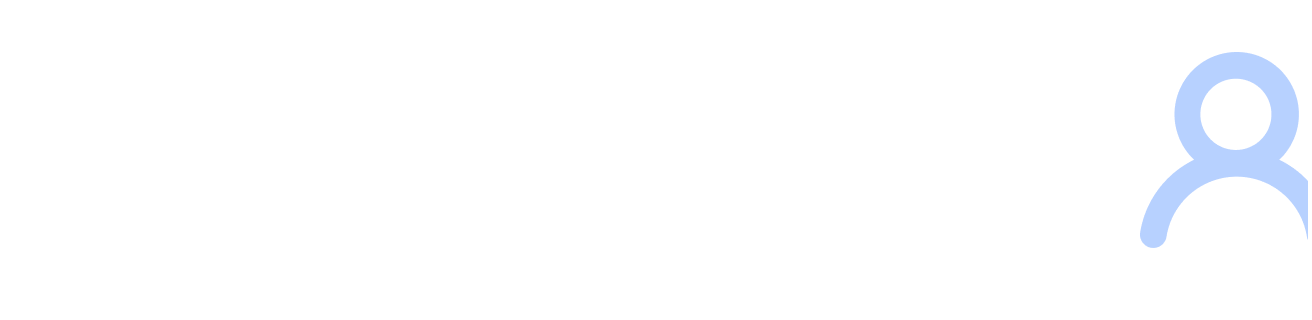
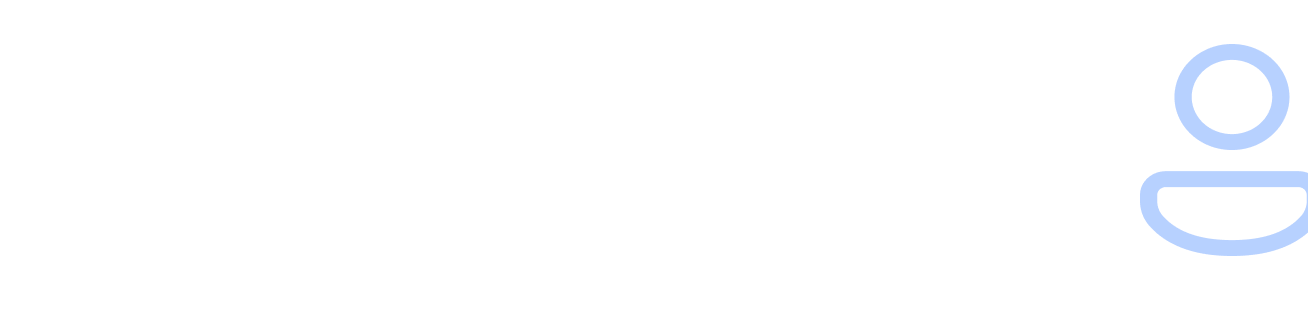
fix halaman depan

Changed region(s): [[0.8438, 0.125, 1.0, 0.8125]]

diff --git a/e_siklinik/lib/pages/data.dart b/e_siklinik/lib/pages/data.dart
@@ -3,6 +3,8 @@ import 'package:e_siklinik/pages/data_dokter.dart';
 import 'package:e_siklinik/pages/data_obat.dart';
 import 'package:e_siklinik/pages/data_pasein.dart';
 import 'package:flutter/material.dart';
+import 'package:fluttericon/font_awesome_icons.dart';
+import 'package:fluttericon/rpg_awesome_icons.dart';
 
 class Data extends StatefulWidget {
   const Data({super.key});
@@ -18,70 +20,91 @@ class _DataState extends State<Data> {
       body: SafeArea(
           child: Padding(
         padding: const EdgeInsets.symmetric(horizontal: 16.0),
-        child: Column(
-          crossAxisAlignment: CrossAxisAlignment.start,
-          children: [
-            const SizedBox(
-              height: 8,
-            ),
-            Container(
-              decoration: const BoxDecoration(
-                borderRadius: BorderRadius.all(Radius.circular(15)),
-                color: Color(0xFFD9D9D9),
+        child: SingleChildScrollView(
+          child: Column(
+            crossAxisAlignment: CrossAxisAlignment.start,
+            children: [
+              const SizedBox(
+                height: 8,
               ),
-              width: double.infinity,
-              height: 150,
-              child: const Center(
-                child: Text("Grafik ?"),
+              Container(
+                decoration: const BoxDecoration(
+                  borderRadius: BorderRadius.all(Radius.circular(15)),
+                  color: Color(0xFFD9D9D9),
+                ),
+                width: double.infinity,
+                height: 150,
+                child: const Center(
+                  child: Text("Grafik ?"),
+                ),
               ),
-            ),
-            const SizedBox(
-              height: 20,
-            ),
-            const Text(
-              "Jadwal Antrian",
-              style: TextStyle(fontSize: 20, fontWeight: FontWeight.w600),
-            ),
-            Column(
-              children: [
-                const SizedBox(
-                  height: 8,
-                ),
-                Box(
-                  title: "Pasien",
-                  desc: "Add, Edit, Delete Data Dokter",
-                  bgimage: '',
-                  icon: '',
-                  onTapBox: () {
-                    Navigator.push(context,
-                        MaterialPageRoute(builder: (context) => const DataPasien()));
-                  },
-                ),
-                Box(
-                  title: "Dokter",
-                  desc: "Add, Edit, Delete Data Dokter",
-                  bgimage: '',
-                  icon: '',
-                  onTapBox: () {
-                    Navigator.push(context,
-                        MaterialPageRoute(builder: (context) => const DataDokter()));
-                  },
-                ),
-                Box(
-                  title: "Obat",
-                  desc: "Add, Edit, Delete Data Obat",
-                  bgimage: '',
-                  icon: '',
-                  onTapBox: () {
-                    Navigator.push(context,
-                        MaterialPageRoute(builder: (context) => const DataObat()));
-                  },
-                )
-              ],
-            )
-          ],
+              const SizedBox(
+                height: 20,
+              ),
+              const Text(
+                "Database",
+                style: TextStyle(fontSize: 20, fontWeight: FontWeight.w600),
+              ),
+              Column(
+                children: [
+                  const SizedBox(
+                    height: 8,
+                  ),
+                  Box(
+                    title: "Pasien",
+                    desc: "Add, Edit, Delete Data\nPasien",
+                    bgimage: '',
+                    icon: setIcon(Icons.person_outline, const Color(0xFF234DF0)),
+                    onTapBox: () {
+                      Navigator.push(
+                          context,
+                          MaterialPageRoute(
+                              builder: (context) => const DataPasien()));
+                    },
+                  ),
+                  Box(
+                    title: "Dokter",
+                    desc: "Add, Edit, Delete Data\nDokter",
+                    bgimage: '',
+                    icon: setIcon(FontAwesome.stethoscope, const Color(0xFF234DF0)),
+                    onTapBox: () {
+                      Navigator.push(
+                          context,
+                          MaterialPageRoute(
+                              builder: (context) => const DataDokter()));
+                    },
+                  ),
+                  Box(
+                    title: "Obat",
+                    desc: "Add, Edit, Delete Data\nObat",
+                    bgimage: '',
+                    icon: setIcon(RpgAwesome.pill, const Color(0xFF234DF0)),
+                    onTapBox: () {
+                      Navigator.push(
+                          context,
+                          MaterialPageRoute(
+                              builder: (context) => const DataObat()));
+                    },
+                  )
+                ],
+              )
+            ],
+          ),
         ),
       )),
     );
   }
+}
+
+Widget setIcon(IconData iconData, Color iconColor) {
+  return Container(
+    padding: const EdgeInsets.all(5),
+    decoration: ShapeDecoration(
+        shape: RoundedRectangleBorder(borderRadius: BorderRadius.circular(15)),
+        color: const Color(0xFFDDEAFF)),
+    child: Icon(
+      iconData,
+      color: iconColor,
+    ),
+  );
 }

diff --git a/e_siklinik/lib/pages/dashboard.dart b/e_siklinik/lib/pages/dashboard.dart
@@ -20,7 +20,7 @@ class _DashboardState extends State<Dashboard> {
           child: Column(
             crossAxisAlignment: CrossAxisAlignment.start,
             children: [
-              SizedBox(
+              const SizedBox(
                 height: 8,
               ),
               Container(
@@ -76,13 +76,13 @@ class _DashboardState extends State<Dashboard> {
                               image: AssetImage('assets/images/Schedule.png'),
                               fit: BoxFit.fill)),
                       child: const Column(
-                        mainAxisAlignment: MainAxisAlignment.center,
+                        mainAxisAlignment: MainAxisAlignment.spaceBetween,
                         crossAxisAlignment: CrossAxisAlignment.start,
                         children: [
                           Text(
                             "Andru Falah Arifin",
                             style: TextStyle(
-                                fontSize: 20, fontWeight: FontWeight.w600),
+                                fontSize: 18, fontWeight: FontWeight.w600),
                           ),
                           Text(
                             "3122500038",
@@ -91,8 +91,8 @@ class _DashboardState extends State<Dashboard> {
                           Row(
                             children: [
                               Icon(
-                                CupertinoIcons.time,
-                                color: Color(0xFFB7D1FF),
+                                Icons.timer_outlined,
+                                color: Color(0xFF234DF0),
                                 size: 18,
                               ),
                               SizedBox(
@@ -120,13 +120,20 @@ class _DashboardState extends State<Dashboard> {
                     title: 'Check Up',
                     desc: 'Tambahkan Hasil Check Up Pasien',
                     bgimage: 'assets/images/Utilities1.png',
-                    icon: 'assets/images/Checkup.png', onTapBox: (){},
+                    icon: const Icon(
+                      Icons.data_saver_on,
+                      size: 25,
+                      color: Color(0xFF234DF0),
+                    ),
+                    onTapBox: () {},
                   ),
                   Box(
                     title: 'Jadwal Antrean',
                     desc: 'Mengatur Jadwal Antrean Pasien',
                     bgimage: 'assets/images/Utilities2.png',
-                    icon: 'assets/images/Vector.png', onTapBox: () {  },
+                    icon: const Icon(Icons.people_alt,
+                        size: 25, color: Color(0xFF234DF0)),
+                    onTapBox: () {},
                   ),
                 ],
               ),

diff --git a/e_siklinik/lib/main.dart b/e_siklinik/lib/main.dart
@@ -5,6 +5,7 @@ import 'package:e_siklinik/pages/search.dart';
 import 'package:flutter/cupertino.dart';
 import 'package:flutter/material.dart';
 import 'package:molten_navigationbar_flutter/molten_navigationbar_flutter.dart';
+import 'package:fluttericon/font_awesome_icons.dart';
 
 void main() {
   runApp(const MyApp());
@@ -30,8 +31,8 @@ class _MyAppState extends State<MyApp> {
   Widget build(BuildContext context) {
     return MaterialApp(
       home: Scaffold(
-      drawer: const Drawer(),
-      appBar: const Header(),
+        drawer: const Drawer(),
+        appBar: const Header(),
         body: _children[_selectedIndex],
         // backgroundColor: Colors.deepPurple[400],
         // you can use the molten bar in the scaffold's bottomNavigationBar
@@ -40,7 +41,7 @@ class _MyAppState extends State<MyApp> {
           borderSize: 1,
           selectedIndex: _selectedIndex,
           domeHeight: 25,
-          domeCircleColor: const Color(0xFFB7D1FF),
+          domeCircleColor: const Color(0xFF234DF0),
           // specify what will happen when a tab is clicked
           onTabChange: (clickedIndex) {
             setState(() {
@@ -61,10 +62,10 @@ class _MyAppState extends State<MyApp> {
               // selectedColor: Colors.yellow,
             ),
             MoltenTab(
-              icon: const Icon(Icons.document_scanner_rounded),
-              title: const Text('Data')
-              // selectedColor: Colors.yellow,
-            ),
+                icon: const Icon(FontAwesome.database),
+                title: const Text('Data')
+                // selectedColor: Colors.yellow,
+                ),
           ],
         ),
       ),

diff --git a/e_siklinik/lib/components/box.dart b/e_siklinik/lib/components/box.dart
@@ -4,7 +4,7 @@ class Box extends StatelessWidget {
   final String bgimage;
   final String title;
   final String desc;
-  final String icon;
+  final icon;
   final VoidCallback onTapBox;
   const Box({super.key, required this.title, required this.desc, required this.bgimage, required this.icon, required this.onTapBox});
 
@@ -38,13 +38,7 @@ class Box extends StatelessWidget {
                 Column(
                   children: [
                     Container(
-                      width: 25,
-                      height: 25,
-                      margin: const EdgeInsets.only(top: 5),
-                      decoration: BoxDecoration(
-                          image: DecorationImage(
-                              image: AssetImage(icon),
-                              fit: BoxFit.fill)),
+                      child: icon,
                     ),
                   ],
                 ),
@@ -73,7 +67,7 @@ class Box extends StatelessWidget {
             ),
           ),
         ),
-        const SizedBox(height: 5,)
+        const SizedBox(height: 15,)
       ],
     );
   }

diff --git a/e_siklinik/lib/pages/data_pasein.dart b/e_siklinik/lib/pages/data_pasein.dart
@@ -17,7 +17,7 @@ class _DataPasienState extends State<DataPasien> {
         elevation: 2,
         shadowColor: Colors.black,
         centerTitle: true,
-        title: const Text("Pasien"),
+        title: const Text("Data Pasien", style: TextStyle(fontWeight: FontWeight.w600),),
       ),
       body: const Center(child: Text("Haloooo")),
     );
